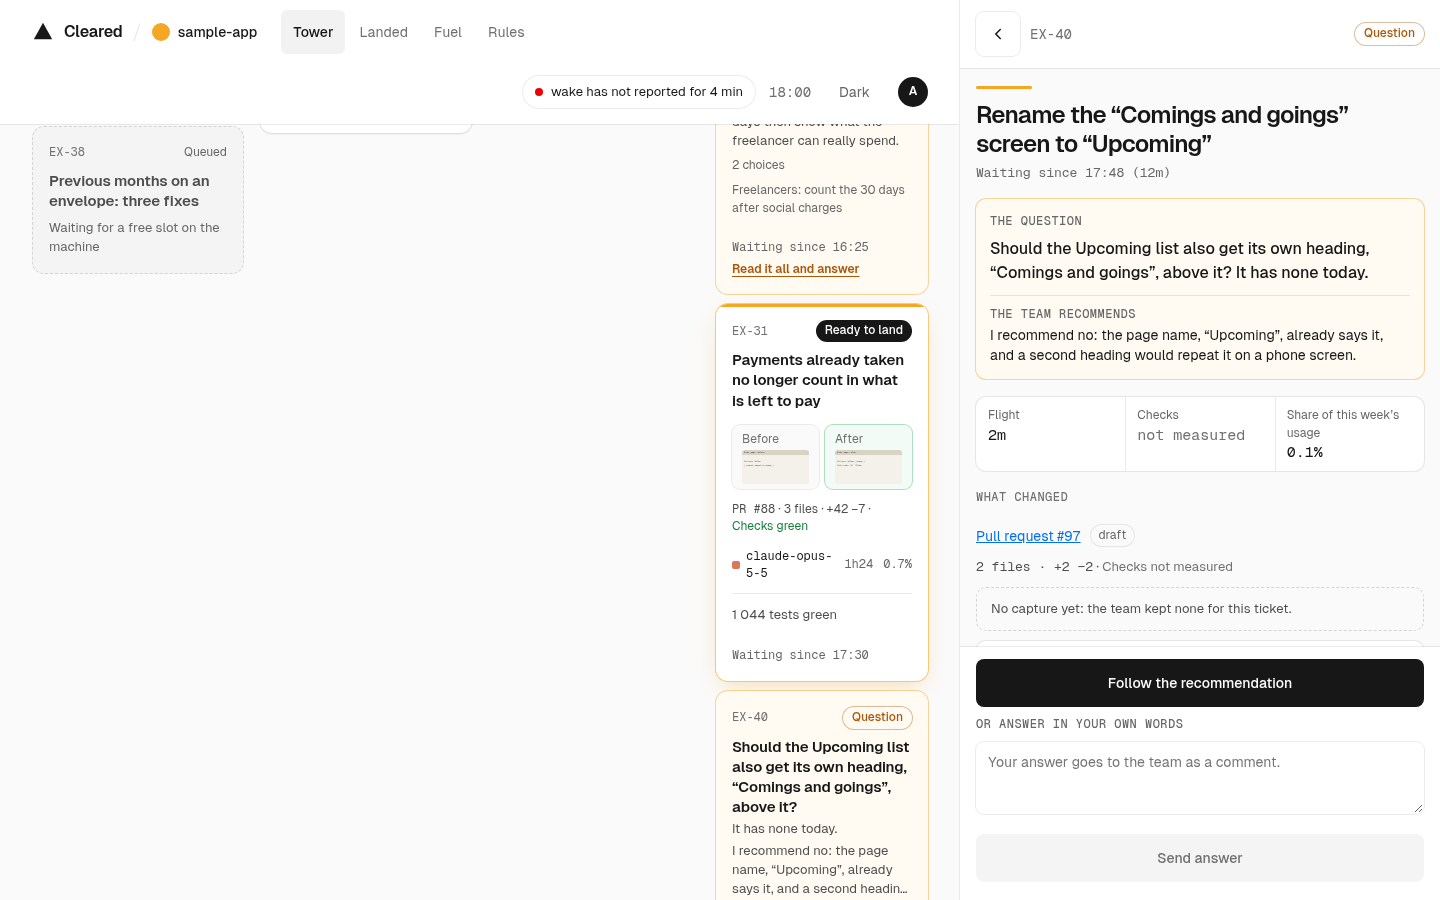
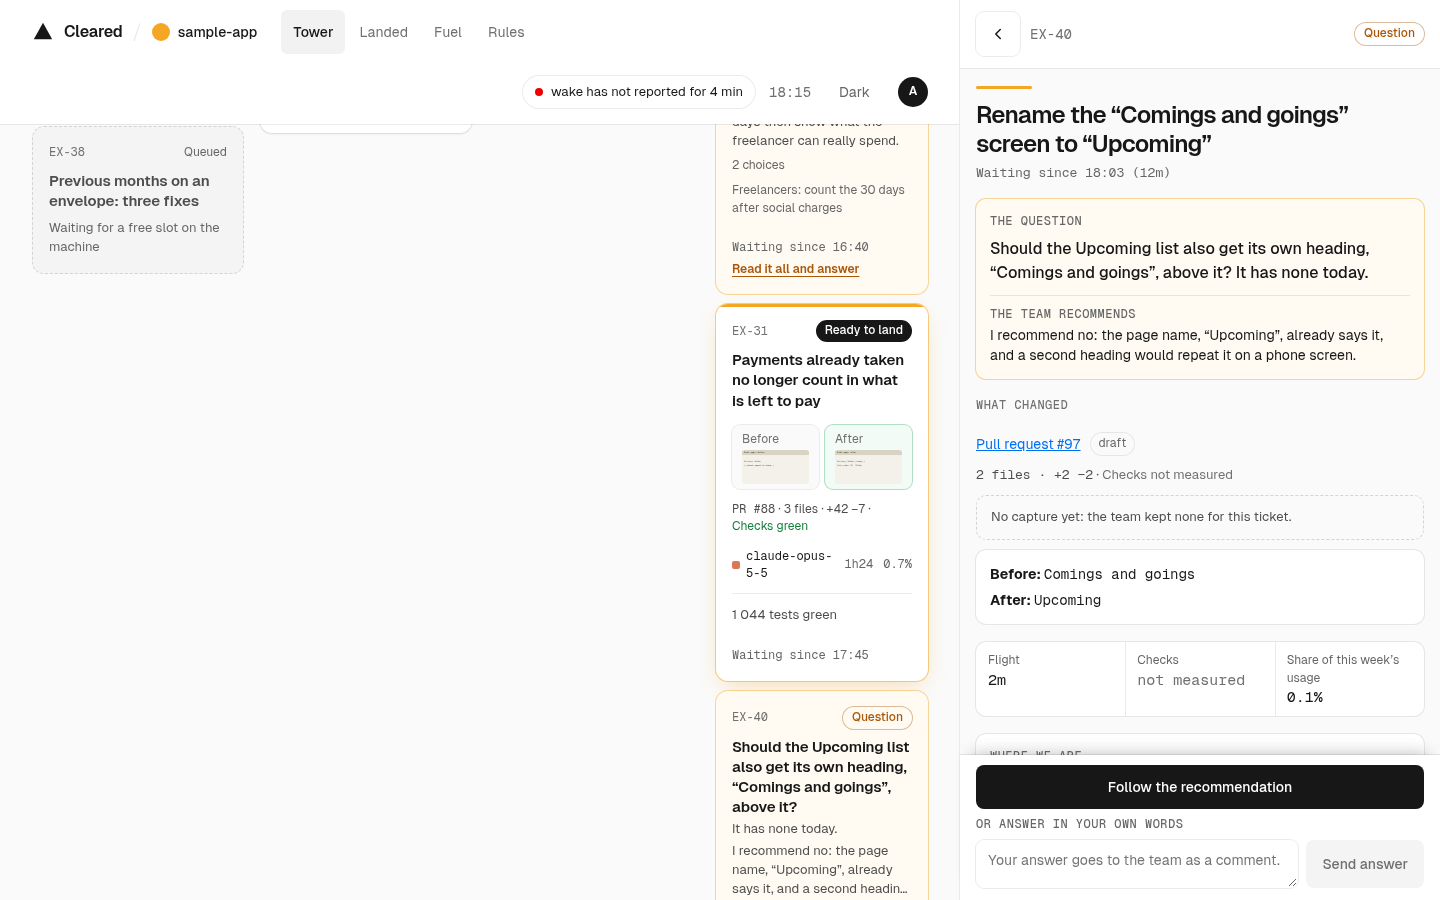
fix(app): the porthole's action panel no longer hides what changed
What changed comes before the stat strip; on a computer the panel takes at
most 36 % of the height with tighter padding, and the free-text answer sits
beside its button; while there is more below, the panel casts a shadow over
it as a scroll cue. The pull request line and the captures show at first
sight at 1440 and 390 px. Screenshots retaken.

diff --git a/app/public/app.js b/app/public/app.js
@@ -266,6 +266,14 @@ function closeTicket() {
   back?.focus(); state.opener = null;
 }
 $('ph-close').addEventListener('click', closeTicket);
+// Something below the fold of the porthole: the action panel casts a shadow over it, so the panel never looks like the end.
+function scrollCue() {
+  const body = $('ph-body');
+  $('porthole').classList.toggle('more-below', body.scrollHeight - body.clientHeight - body.scrollTop > 8);
+}
+$('ph-body').addEventListener('scroll', scrollCue, { passive: true });
+new ResizeObserver(scrollCue).observe($('ph-body'));
+new MutationObserver(scrollCue).observe($('porthole'), { childList: true, subtree: true });
 const actions = initActions({ t, el, $, state, clock,
   redraw: () => { shown.tower = ''; if (state.snap) render(state.snap); },
   reopen: (id) => openTicket(id) });
@@ -306,7 +314,6 @@ function porthole(d) {
   const stats = [[t('app_stat_p_flight'), dur(d.flightMinutes), '']];
   stats.push([t('app_stat_p_checks'), d.change?.checks ? t(`app_checks_${d.change.checks}`) : t('app_not_measured'), checksClass(d.change)]);
   if (d.quotaShare != null) stats.push([t('app_stat_p_usage'), pct(d.quotaShare), '']);
-  out.push(el('div', { className: 'pstats' }, ...stats.map(([k, v, cls]) => el('div', {}, el('div', { className: 'k', textContent: k }), el('div', { className: `v ${cls}`.trim(), textContent: v })))));
 
   // What changed: the pull request, its size and its checks; the captures of a screen; an example.
   const changed = [];
@@ -327,6 +334,8 @@ function porthole(d) {
   if (d.show.kind === 'code' && d.show.tests.length) changed.push(el('ul', { className: 'tests box-card' }, ...d.show.tests.map((x) => el('li', {}, mono(x.name), ` · ${t(`app_test_${x.change}`)} · `, el('span', { className: x.state === 'pass' ? 'success' : x.state === 'fail' ? 'danger' : 'faint', textContent: t(`app_state_${x.state}`) })))));
   if (d.show.kind === 'code' && d.show.touches) changed.push(el('p', { textContent: d.show.touches }));
   out.push(section(t('app_changed'), changed));
+  // The numbers after what changed: the pull request line and the captures are seen first.
+  out.push(el('div', { className: 'pstats' }, ...stats.map(([k, v, cls]) => el('div', {}, el('div', { className: 'k', textContent: k }), el('div', { className: `v ${cls}`.trim(), textContent: v })))));
 
   // Where we are: the team's report to the user (Done, Still to do), never its internal handover.
   const where = [];

diff --git a/app/public/actions.js b/app/public/actions.js
@@ -109,7 +109,7 @@ export function initActions({ t, el, $, state, clock, redraw, reopen }) {
   // The answer to a question: one tap to follow the team's recommendation (only when it gave one),
   // one tap per choice it offered, or the owner's own words. Each is sent as written here, as a comment.
   function answerForm(card) {
-    const area = el('textarea', { className: 'act-text', rows: 2, maxLength: 4000, id: 'an-text', placeholder: t('app_act_answer_hint') });
+    const area = el('textarea', { className: 'act-text', rows: 1, maxLength: 4000, id: 'an-text', placeholder: t('app_act_answer_hint') });
     const err = el('p', { className: 'act-error danger', role: 'alert' });
     const all = [];
     const send = async (value) => {
@@ -135,7 +135,8 @@ export function initActions({ t, el, $, state, clock, redraw, reopen }) {
     const go = button(t('app_act_send'), 'ink', () => send(area.value), true);
     area.addEventListener('input', () => { go.disabled = !area.value.trim(); go.toggleAttribute('aria-disabled', go.disabled); });
     all.push(go);
-    box.replaceChildren(...blocks, el('label', { className: 'act-label', htmlFor: 'an-text', textContent: t('app_act_answer_label') }), area, err, el('div', { className: 'act-row' }, go));
+    // The text and its button side by side: the panel stays short and what changed stays in sight.
+    box.replaceChildren(...blocks, el('label', { className: 'act-label', htmlFor: 'an-text', textContent: t('app_act_answer_label') }), el('div', { className: 'answer-row' }, area, go), err);
   }
 
   // Called when a ticket is opened (fresh) and each time the board changes under it.

diff --git a/app/public/style.css b/app/public/style.css
@@ -222,3 +222,15 @@ a { color: var(--link); } button { font: inherit; color: inherit; }
 .report-h { font-size: 12px; font-weight: 600; color: var(--text-muted); margin: 10px 0 4px; }
 .report { margin: 0; padding-left: 18px; } .report li { margin: 4px 0; }
 .tracker-note { font-size: 13px; color: var(--text-secondary); }
+
+/* the action panel: compact where the porthole is a side panel, and a shadow over what is still below */
+.porthole.more-below .ph-actions { box-shadow: 0 -1px 0 var(--outline), 0 -12px 16px -12px rgba(0,0,0,.28); }
+:root[data-theme="dark"] .porthole.more-below .ph-actions { box-shadow: 0 -1px 0 var(--outline), 0 -12px 16px -12px rgba(0,0,0,.9); }
+@media (min-width: 768px) {
+  .ph-actions { max-height: 36vh; gap: 8px; padding: 10px 16px 12px; }
+  .ph-actions .act { min-height: 44px; }
+  .ph-actions .act-text { min-height: 48px; }
+}
+@media (max-width: 767px) { .device img { height: 168px; } }
+.answer-row { display: flex; gap: 8px; align-items: stretch; } .answer-row .act-text { flex: 1; min-height: 48px; } .answer-row .act { flex: none; padding: 0 16px; }
+.act-error:empty { display: none; }

diff --git a/app/DESIGN.md b/app/DESIGN.md
@@ -127,7 +127,8 @@ White outlined table at the bottom of the tower: time (mono), what shipped (plai
 
 ### Porthole
 Desktop: right panel. Phone: full page with a back button, the ticket id and the status chip in a white header.
-Order: a 3 px × 56 px flat amber bar above the title when it waits for the human, the title (`title`) and "Waiting since 16:05 (1h35)" in mono, the question block (`awaiting-surface`, amber outline, the whole question at 16 px, the team's recommendation below a highlight hairline), a stat strip (flight, checks, share of the week only when measured), What changed, Where we are, The squad, Black box.
+Order: a 3 px × 56 px flat amber bar above the title when it waits for the human, the title (`title`) and "Waiting since 16:05 (1h35)" in mono, the question block (`awaiting-surface`, amber outline, the whole question at 16 px, the team's recommendation below a highlight hairline), What changed (so that the pull request line and the captures are seen without scrolling), a stat strip (flight, checks, share of the week only when measured), Where we are, The squad, Black box.
+- The action panel stays at the bottom: at most 36 % of the height on a computer (60 % on a phone), the free-text answer and its button on one row. While the porthole has more below, the panel casts a soft shadow upward over it (the one shadow besides the three levels of section 6): the panel never reads as the end.
 - What changed: the pull request link with a "draft" tag, one line of facts (files, +added −removed, checks in `success-text` or `danger`), then the captures, or one dashed box "No capture yet: …" with the reason.
 - Where we are: the team's report to the user, "Done" and "Still to do" as short lists, the time of the report in `text-faint`; "No report from the team yet." otherwise.
 - What changed, screen ticket: before and after inside device frames (radius `device`, 5 px white bezel, outline), after with `elevation.device-after`.
@@ -145,7 +146,7 @@ Order: a 3 px × 56 px flat amber bar above the title when it waits for the huma
 
 ## 6. Depth
 
-Three levels: canvas, card (one-pixel shadow outline plus a 2 px soft shadow), awaiting card (amber outline plus an amber soft shadow). No other shadows. Borders are shadows or hairlines, never thick.
+Three levels: canvas, card (one-pixel shadow outline plus a 2 px soft shadow), awaiting card (amber outline plus an amber soft shadow). No other shadows, except the scroll cue of the porthole's action panel (section 4). Borders are shadows or hairlines, never thick.
 
 ## 7. Do's and don'ts
 
